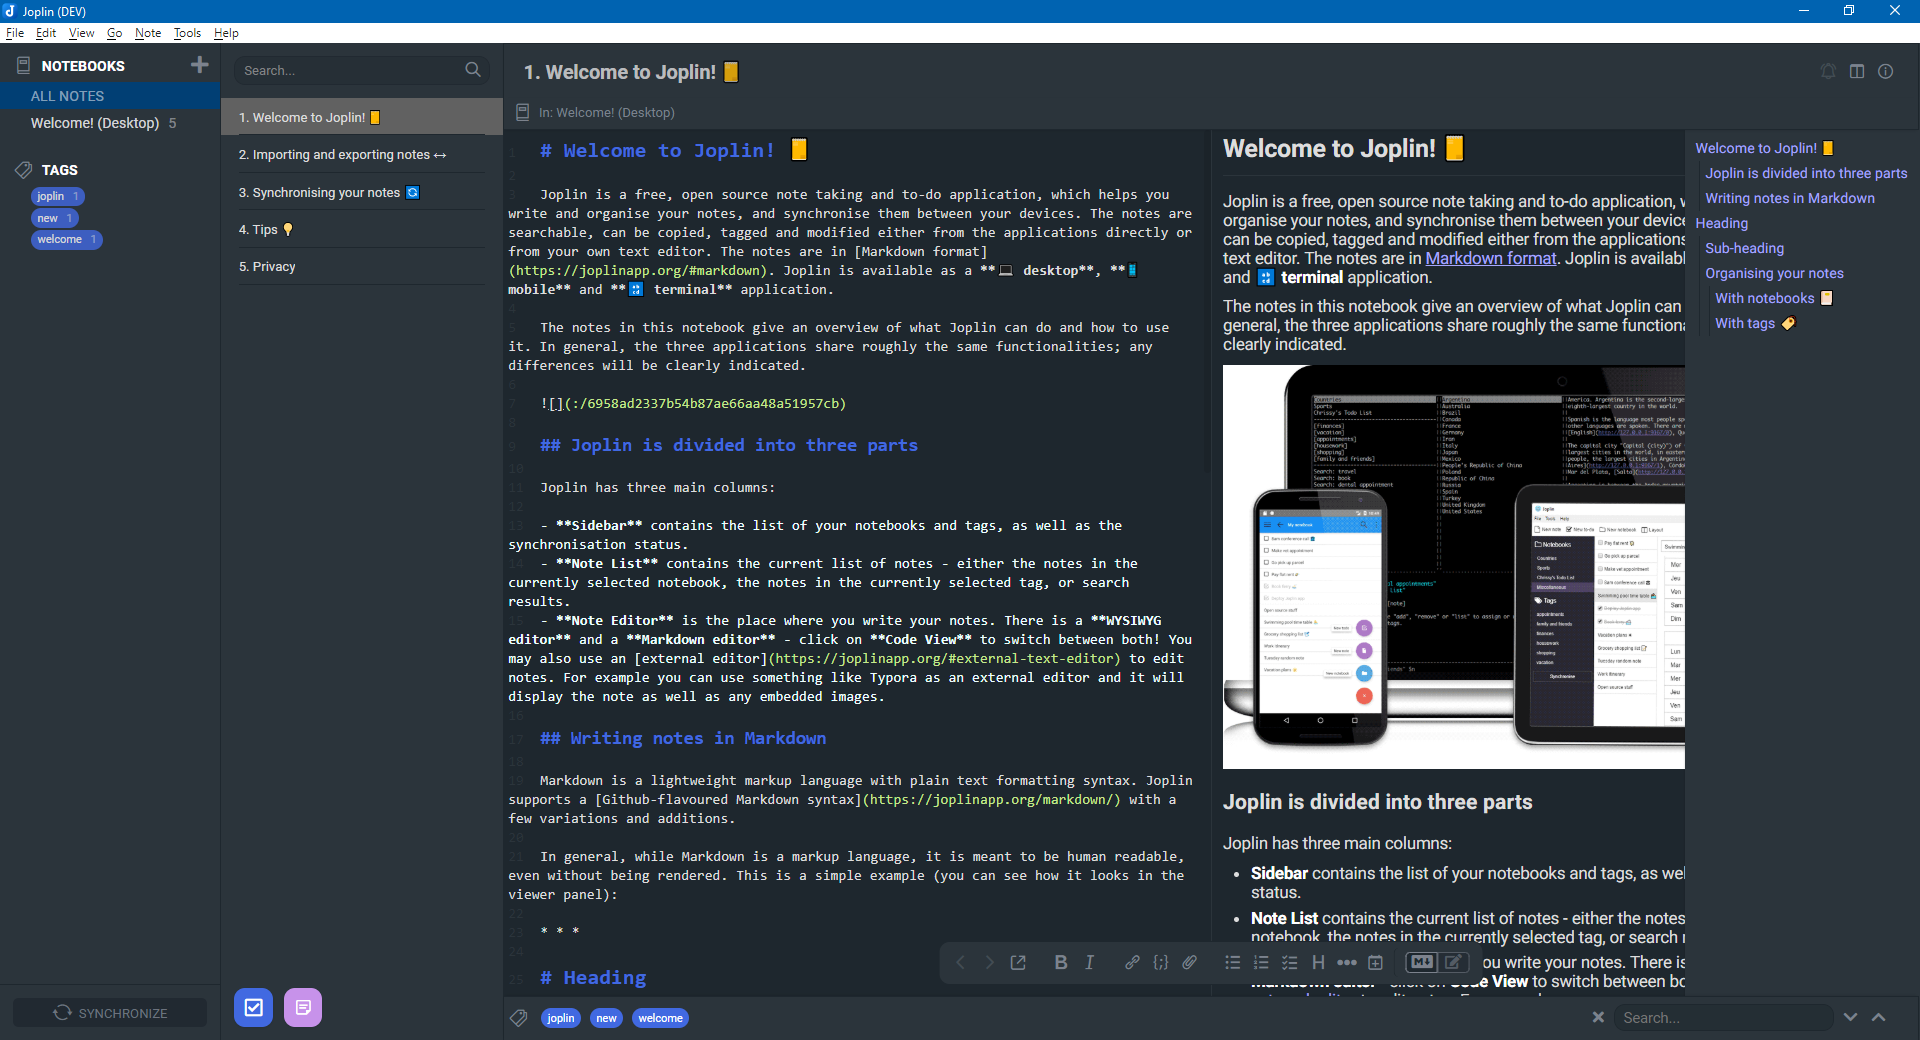
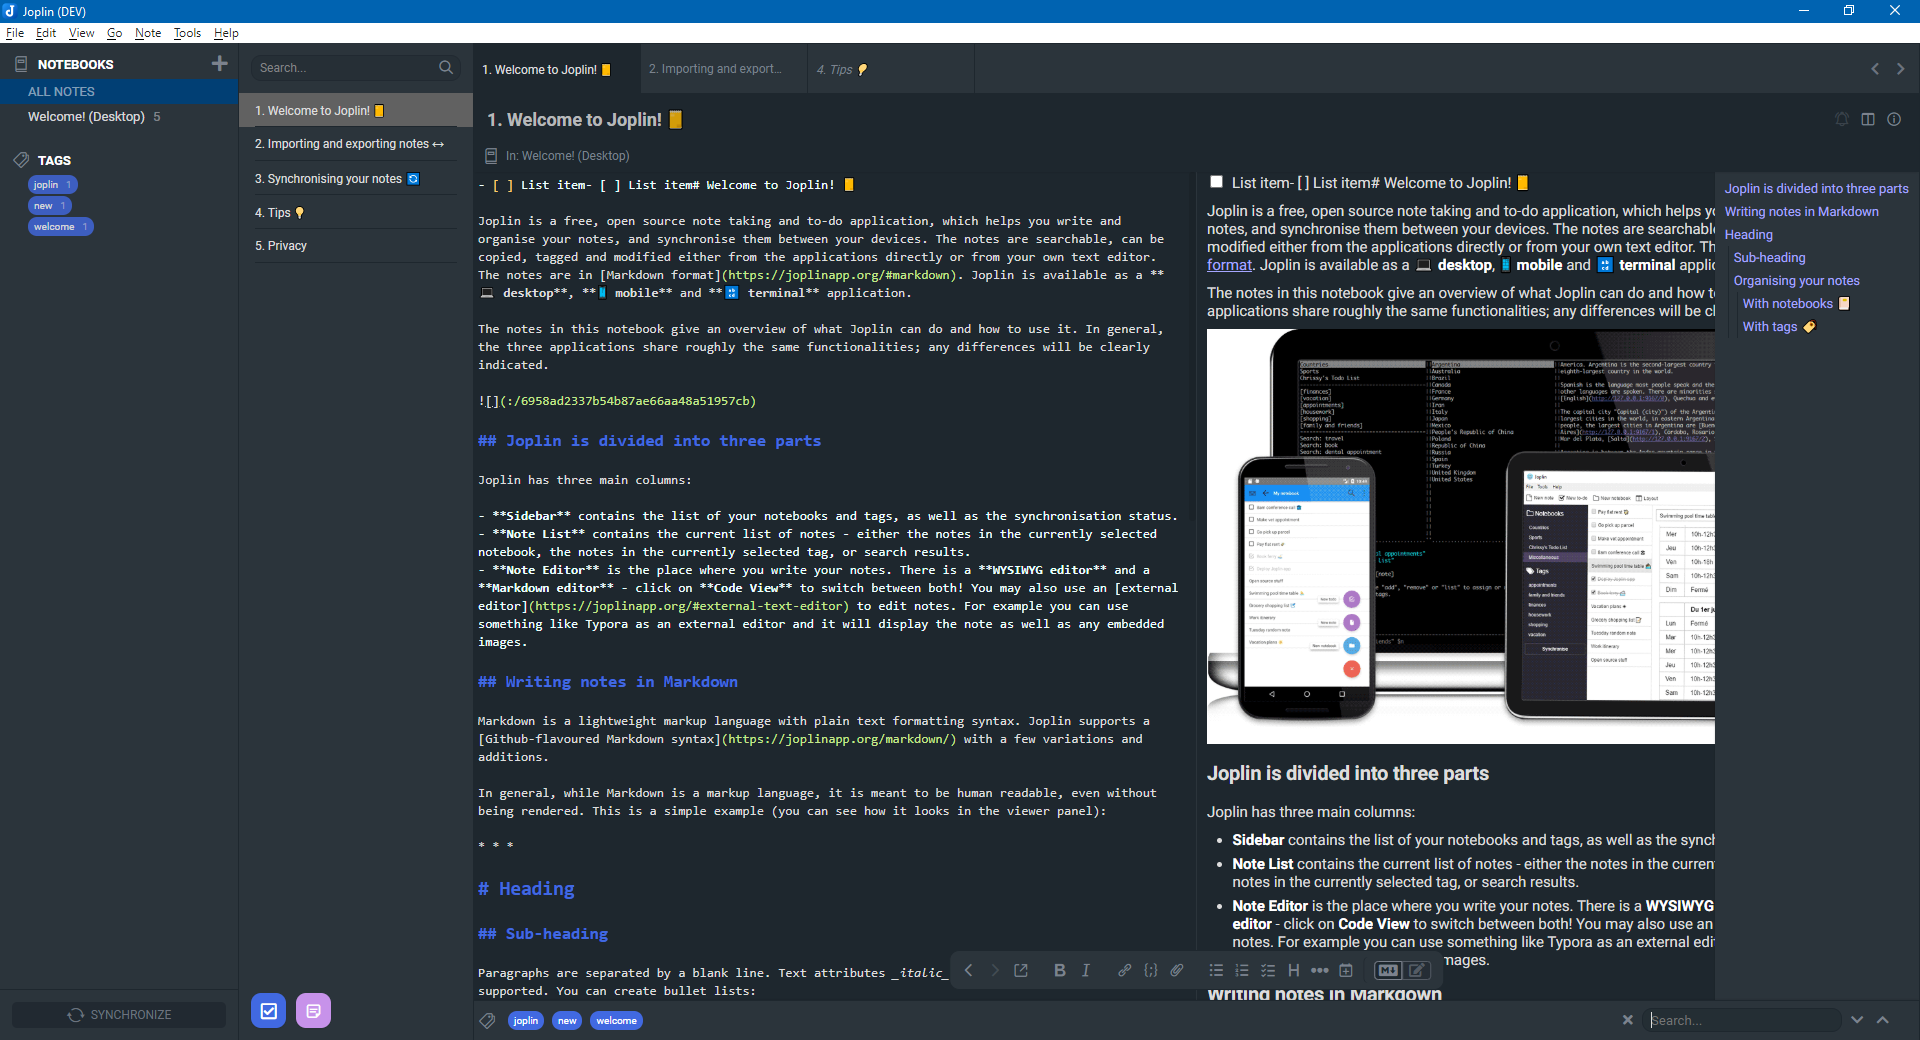
- Improved style of editor title   - Now has same background as content

diff --git a/theme/userchrome.css b/theme/userchrome.css
@@ -378,11 +378,11 @@ button[title="New note"] {
 
 /* note title bar */
 .rli-editor > div > div > div > div:first-of-type {
-  background-color: var(--grey) !important;
+  background-color: var(--dark) !important;
   border-bottom: var(--default-border) !important;
   box-shadow: var(--shadow-bottom) !important;
+  margin-bottom: 0 !important;
   min-height: 50px !important;
-  padding: 5px !important;
   z-index: 10 !important;
 }
 
@@ -405,7 +405,7 @@ a[title="Set alarm"] {
   > div
   > div
   > div[style="padding-top: 10px; padding-bottom: 10px;"] {
-  background-color: var(--grey) !important;
+  background-color: var(--dark) !important;
   border-bottom: var(--default-border) !important;
   box-shadow: var(--shadow-bottom) !important;
   margin-top: -1px;
@@ -451,6 +451,9 @@ a[title="Set alarm"] {
 .joplin-tinymce .tox .tox-toolbar__primary,
 .joplin-tinymce .tox-toolbar__group {
   background-color: var(--grey) !important;
+}
+.rli-editor > div > div > div > div:first-of-type .editor-toolbar {
+  background-color: var(--dark) !important;
 }
 
 /* content */

diff --git a/README.md b/README.md
@@ -1,13 +1,13 @@
 # Joplin - Milford UI
 
-_joplin-milford-ui_ is a theme to adapt the UI of [Joplin's](https://joplinapp.org/) desktop application.
+Milford UI is a theme to adapt the UI of [Joplin's](https://joplinapp.org/) desktop application.
 
 > **Visit [Milford Sound](https://www.newzealand.com/int/milford-sound/) in New Zealand! :heart_eyes:**
 
 > **NOTE** - In order to get the best result, it is highly recommended to set the internal color theme to `Dark`.
 > For details please see [Installation](#installation).
 
-> :warning: **CAUTION** - Requires Joplin **v1.4.12** or newer
+> :warning: **CAUTION** - Requires Joplin **v1.4.18** or newer
 
 ## Table of contents
 

diff --git a/CHANGELOG.md b/CHANGELOG.md
@@ -7,8 +7,16 @@ and this project adheres to [Semantic Versioning](https://semver.org/spec/v2.0.0
 
 ## [Unreleased]
 
+- None
+
+## [0.2.0] - 2020-12-02
+
+### Changed
+
 - Disable CodeMirror line numbers hack by default
   - Instead added support for CodeMirror line numbers [plugin](https://github.com/shantanugoel/joplin-plugin-cm-linenumbers/)
+- Improved style of editor title
+  - Now has same background as content
 
 ## [0.1.0] - 2020-11-28
 
